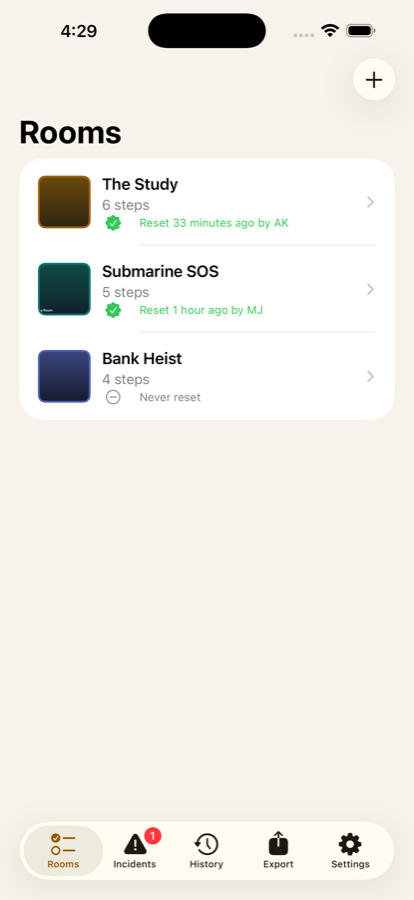
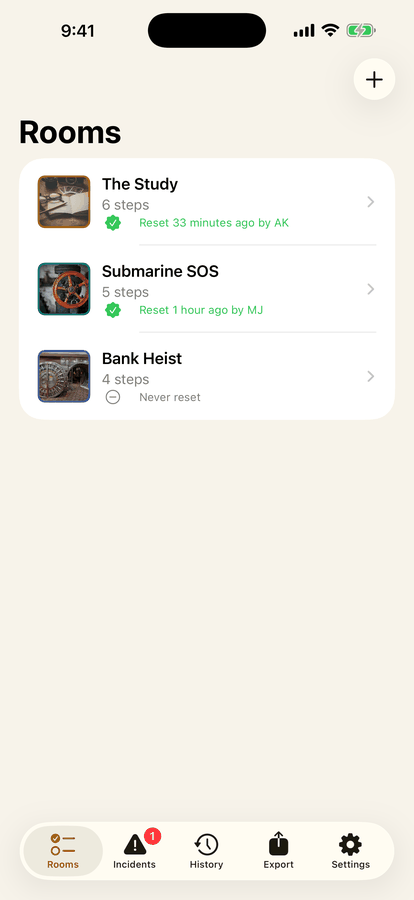
Update Escape Room Reset screenshots to the real prop photos
The app's demo data used coloured gradients for every reference photo, so the
screenshots on this page showed brown rectangles where a desk, a bookshelf or a
padlock should be. The app now ships real CC0 photos of those props, so
recapture all four unframed shots against the new data.

Quantized to 256 colours, which is invisible at 414x900 and drops the set from
285 KB to 192 KB even though the hero now carries an actual photograph rather
than a flat gradient.

Also corrects the hero alt text, which described the previous image: the timer
reads 0:08 rather than 0:01, and the reference photo is a brass cipher wheel
rather than a desk.

diff --git a/apps/escaperoomreset/index.html b/apps/escaperoomreset/index.html
@@ -226,7 +226,7 @@
         </p>
       </div>
       <div class="hero-shot">
-        <img src="screenshots/02-run.png" alt="A reset in progress: the timer reads 0:01 against a 7:00 target, above a reference photo of a desk and the step Set the cipher wheel to K." width="414" height="900">
+        <img src="screenshots/02-run.png" alt="A reset in progress: the timer reads 0:08 against a 7:00 target, above a reference photo of a brass cipher wheel and the step Set the cipher wheel to K." width="414" height="900">
       </div>
     </div>
   </header>
